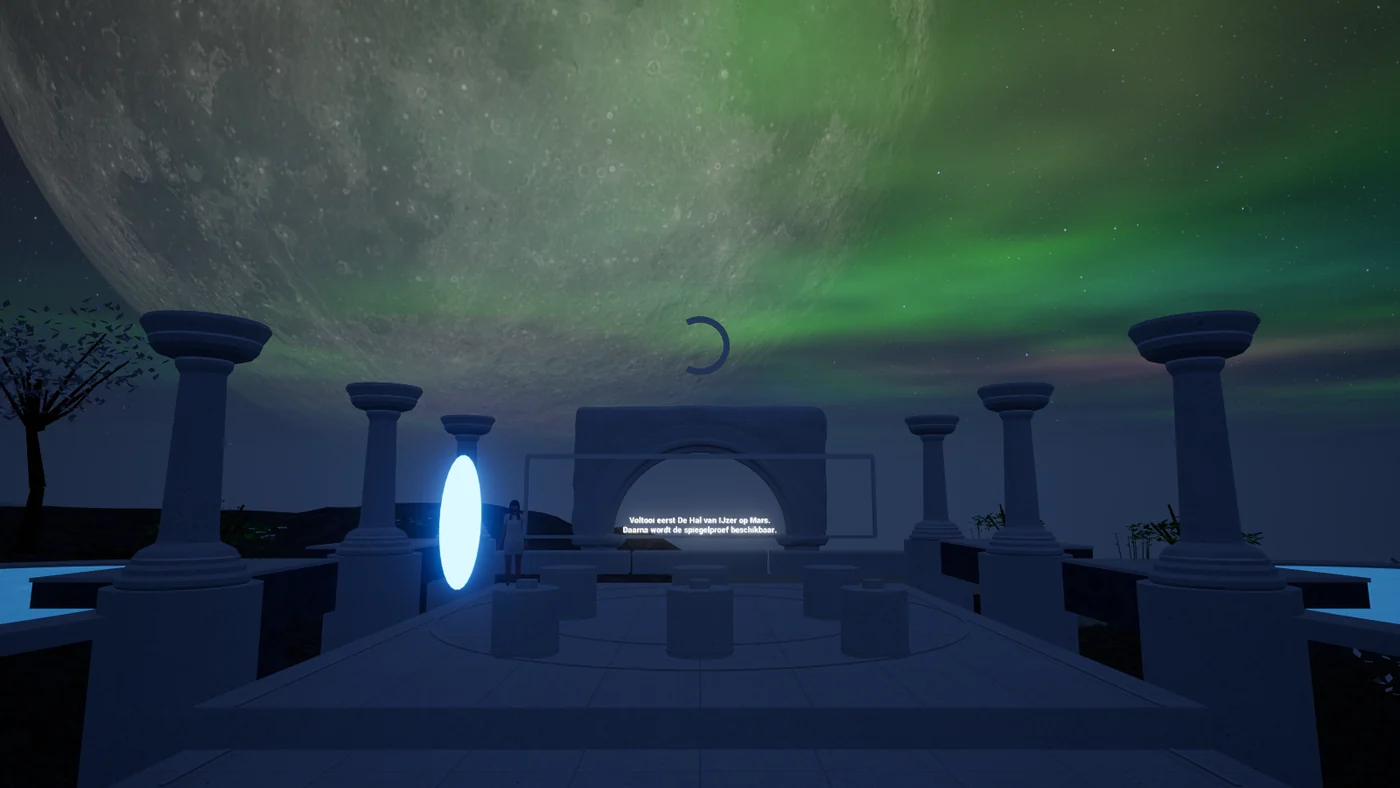
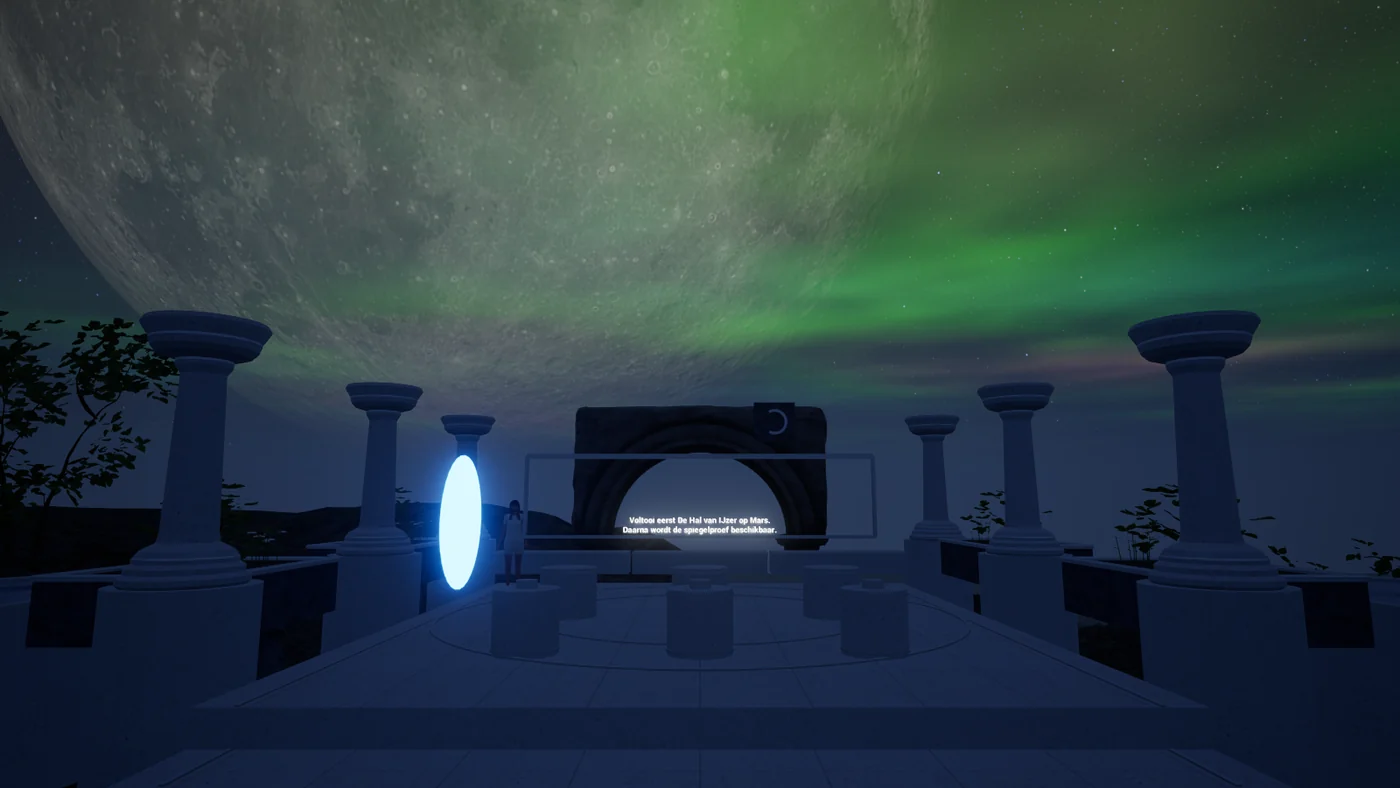
Polish six worlds and publish build 24 progress

diff --git a/scripts/prepare-native-worlds.py b/scripts/prepare-native-worlds.py
@@ -26,6 +26,13 @@ for key, name in rows:
         raise RuntimeError('A checked world render is missing: ' + key)
     if args.build_version >= 22 and 'inlay_errors=0' not in report:
         raise RuntimeError('Trial inlay review is missing: ' + key)
+    if args.build_version >= 24:
+        render_log = (renders / (name + '-render.log')).read_text(encoding='utf-8-sig', errors='replace')
+        if 'shaderplatform="PCD3D_ES3_1"' not in render_log or 'review_view=wide' not in report:
+            raise RuntimeError('Expected a wide Windows mobile-renderer capture: ' + key)
+        source_map = Path(args.source_project) / 'Content/Arcana/Worlds' / (name + '.umap')
+        if source_map.is_file() and source.stat().st_mtime < source_map.stat().st_mtime:
+            raise RuntimeError('Capture predates the saved world: ' + key)
 manifest_path = root / 'content/media.json'
 manifest = json.loads(manifest_path.read_text(encoding='utf-8'))
 posts_path = root / 'content/posts.json'

diff --git a/README.md b/README.md
@@ -26,7 +26,7 @@ Wereldteksten staan in `content/worlds.json`. Algemene gegevens en de Meta-uitno
 
 Een push naar `main` bouwt en controleert de website en publiceert `dist/` via GitHub Actions naar Pages. `dist/` zelf wordt niet gecommit. GitHub Pages moet als bron **GitHub Actions** gebruiken. Er zijn geen providerkeys of custom secrets nodig in de workflow.
 
-De huidige teksten verwijzen naar 15 oktober 2026. Ontwikkelbuild 23 bouwt voort op de reisbegeleiding en sokkelafwerking van build 22, met verweerde ruïnes, rotsvariatie en een aanwezig Fab-grindmateriaal rond de Kluizenaar. Achttien native tests en de controle van de bestaande Saturnusroute slagen. De nieuwe Saturnus-preview is afkomstig uit de mobiele Unreal-renderer op Windows; de andere wereldbeelden behouden versie 22. USB-build 21 blijft de afzonderlijke stereokandidaat. Meta-ALPHA bevat build 20, waarin de tester een storing in het hele rechterbeeld meldt. Een Quest-systeemdialoog blokkeerde de automatische beeldcontrole van build 21. Stereo, comfort en framerate zijn nog niet goedgekeurd.
+De huidige teksten verwijzen naar 15 oktober 2026. Ontwikkelbuild 24 werkt de zes latere proefwerelden af met verweerde ruïnes, drie rotsvormen, haagbeuk en waar passend klimop. Open plantenbakken hergebruiken het aanwezige Fab-grindmateriaal; zes bassins krijgen een op het terrein afgestemde onderbouw en water zonder eigen lichtgloed. Achttien native tests, zes looptests en de dertien aankomsten in de reistest slagen. De zes nieuwe wereldbeelden en twee detailbeelden zijn mobiele Unreal-previews op Windows. Saturnus behoudt versie 23, Aarde versie 22; historische artikelbeelden blijven bewaard. De Android-build en handtekening zijn gecontroleerd. USB-build 21 blijft de afzonderlijke stereokandidaat. Meta-ALPHA bevat build 20, waarin de tester een storing in het hele rechterbeeld meldt. Een Quest-systeemdialoog blokkeerde de automatische beeldcontrole van build 21. Stereo, comfort en framerate zijn nog niet goedgekeurd.
 
 Publiceer na een betekenisvolle, gecontroleerde mijlpaal en werk de wereldpagina’s en teststatus in dezelfde wijziging bij. Een wekelijkse controle op vrijdag om 17:00 kijkt of er nieuwe resultaten zijn; zonder nieuws is er geen nieuw artikel. Houd historische artikelen herkenbaar als de stand bij die mijlpaal.
 
